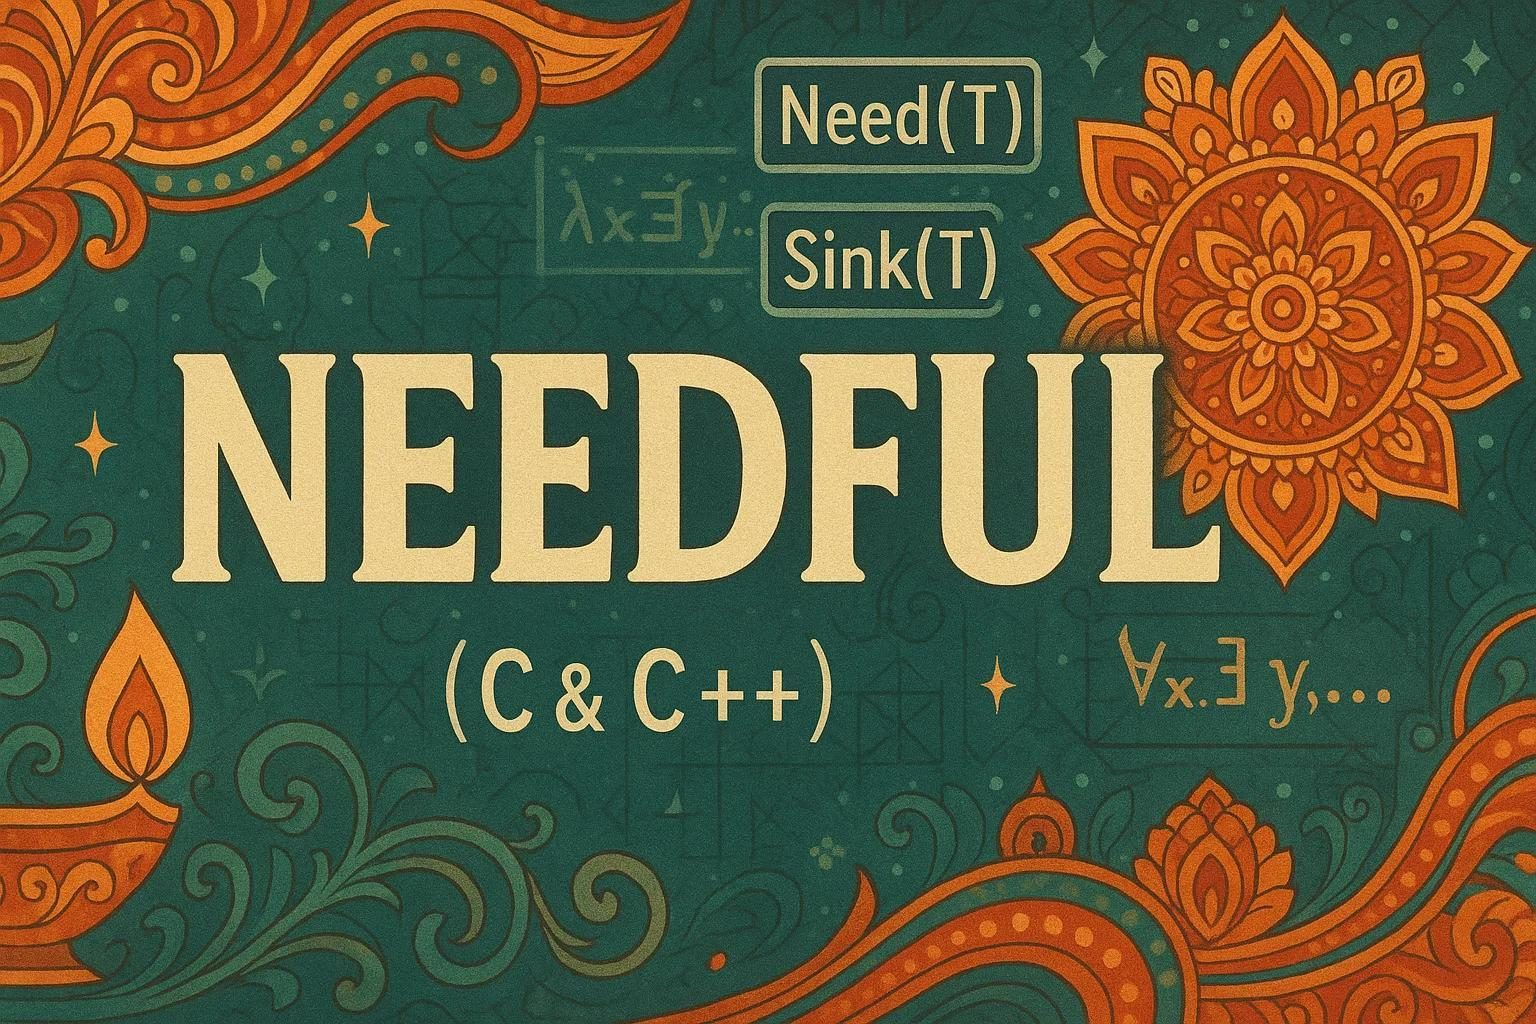
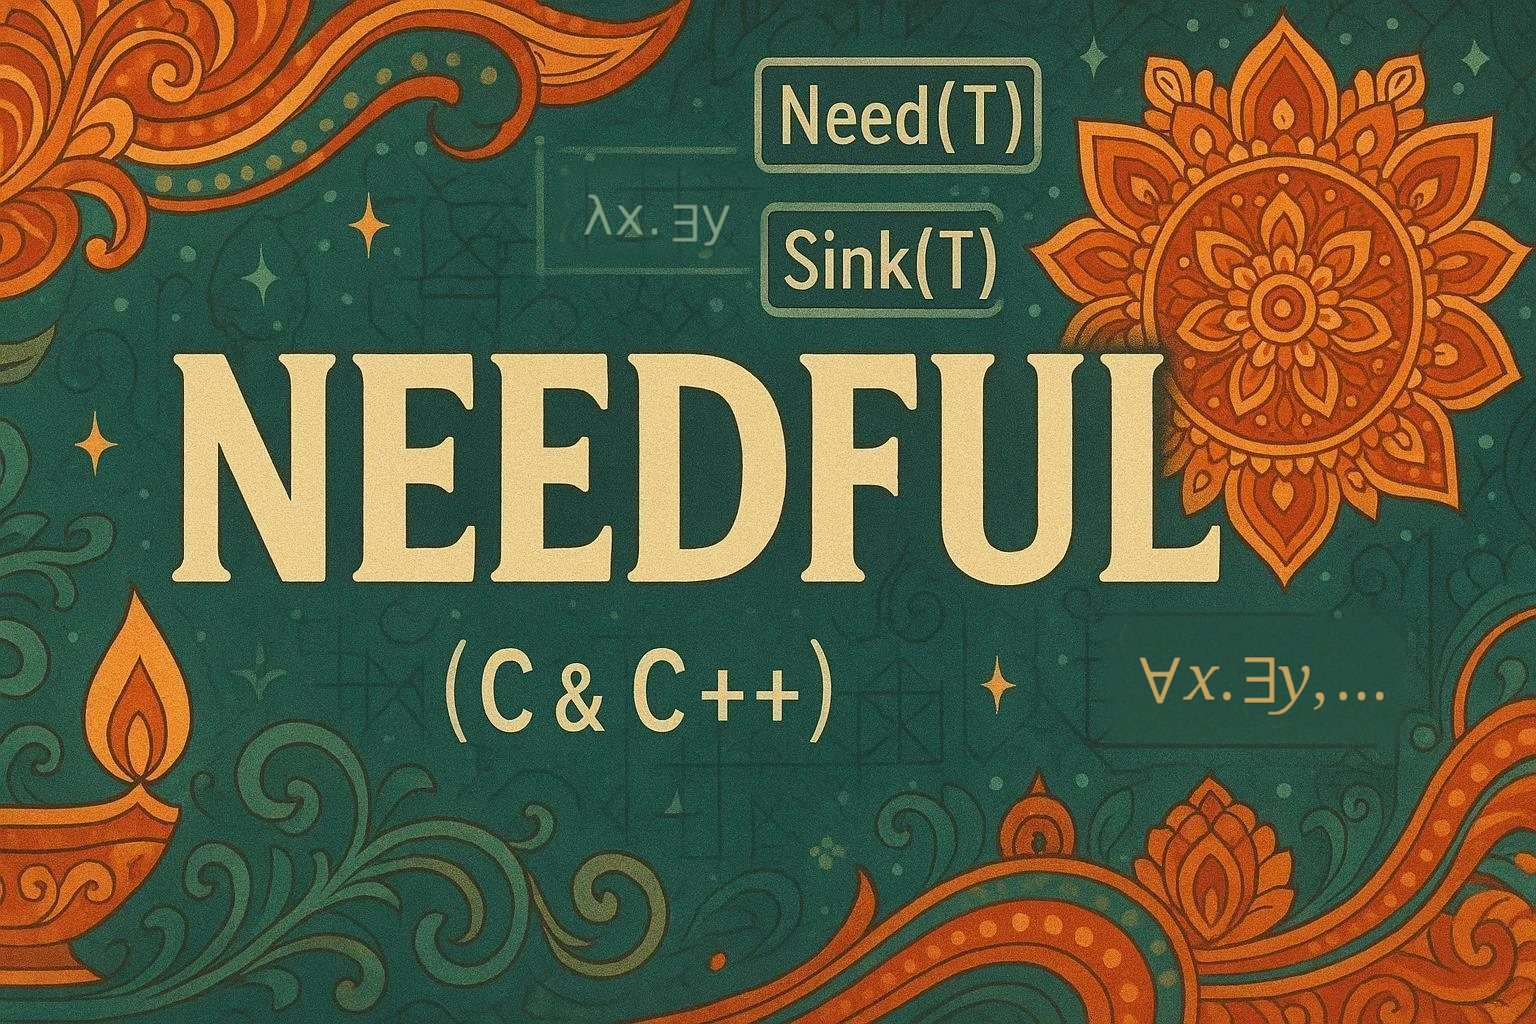
Tweak graphics and increase font size
Original Sora graphic was kind of sloppy about the math symbols, fix
that sloppiness and increase the font size.

Changed region(s): [[0.7188, 0.625, 0.9062, 0.7188], [0.375, 0.1875, 0.5, 0.25]]

diff --git a/docs/_sass/custom/custom.scss b/docs/_sass/custom/custom.scss
@@ -48,6 +48,11 @@ pre {
   font-feature-settings: "liga" 0, "calt" 0;
 }
 
+// Inline code at 0.75em (the theme default) is hard to read at body size.
+code {
+  font-size: 0.85em;
+}
+
 //=== Sidebar ================================================================//
 
 .side-bar {
@@ -99,8 +104,8 @@ pre {
 
 .needful-mark {
   flex: 0 0 auto;
-  width: 2.4rem;
-  height: 2.4rem;
+  width: 2.6rem;
+  height: 2.6rem;
   border-radius: 50%;
   box-shadow:
     0 0 0 2px $needful-green-700,
@@ -110,7 +115,7 @@ pre {
 
 .needful-wordmark {
   font-family: $needful-display-font-family;
-  font-size: 1.35rem;
+  font-size: 1.5rem;
   font-weight: 800;
   letter-spacing: 0.16em;
   line-height: 1;
@@ -126,6 +131,8 @@ pre {
 }
 
 .nav-list .nav-list-item {
+  font-size: 1rem !important;
+
   .nav-list-link {
     color: $needful-parchment;
     transition: color 120ms ease, background-color 120ms ease;
@@ -171,7 +178,7 @@ pre {
   .needful-footer-glyphs {
     font-family: "STIX Two Math", "Cambria Math", "Latin Modern Math",
       "Noto Serif", "Times New Roman", serif;
-    font-size: 0.95rem;
+    font-size: 1.05rem;
     letter-spacing: 0.08em;
     color: $needful-gold;
     opacity: 0.8;
@@ -222,7 +229,7 @@ pre {
 
 .aux-nav .site-button {
   font-family: $body-font-family;
-  font-size: 0.72rem;
+  font-size: 0.8rem;
   font-weight: 600;
   letter-spacing: 0.12em;
   text-transform: uppercase;
@@ -266,7 +273,7 @@ pre {
   }
 
   h1 {
-    font-size: 2.35rem;
+    font-size: 2.6rem;
     font-weight: 800;
     line-height: 1.15;
     letter-spacing: 0.005em;
@@ -290,21 +297,21 @@ pre {
   }
 
   h2 {
-    font-size: 1.55rem;
+    font-size: 1.85rem;
     padding-bottom: 0.3em;
     margin-top: 2.2em;
     border-bottom: 1px solid $needful-hairline;
   }
 
   h3 {
-    font-size: 1.2rem;
+    font-size: 1.4rem;
     margin-top: 1.8em;
     color: $needful-amber;
   }
 
   h4 {
     font-family: $body-font-family;
-    font-size: 0.78rem;
+    font-size: 0.85rem;
     font-weight: 700;
     letter-spacing: 0.14em;
     text-transform: uppercase;
@@ -330,6 +337,19 @@ pre {
 
   strong {
     color: $needful-cream;
+  }
+
+  // Code inside a link gets the link color, so `Need(T)` reads as a link
+  // rather than as ordinary inline code with a faint underline.
+  a code,
+  a:not([class]) code {
+    color: $needful-saffron;
+    border-color: rgba($needful-saffron, 0.45);
+  }
+
+  a:hover code {
+    color: $needful-marigold;
+    border-color: $needful-marigold;
   }
 
   ul > li::before {
@@ -411,6 +431,8 @@ figure.highlight {
   }
 
   code {
+    font-size: 0.95rem;
+    line-height: 1.55;
     color: $needful-parchment;
   }
 }
@@ -559,7 +581,7 @@ figure.highlight {
 
 th {
   font-family: $body-font-family;
-  font-size: 0.72rem !important;
+  font-size: 0.8rem !important;
   font-weight: 700;
   letter-spacing: 0.1em;
   text-transform: uppercase;
@@ -568,6 +590,8 @@ th {
 }
 
 td {
+  font-size: 1rem !important;
+  line-height: 1.5;
   background-color: $needful-green-500;
 }
 
@@ -631,7 +655,8 @@ td {
 //=== Homepage hero ==========================================================//
 
 .needful-hero {
-  margin: 0 0 1.5rem;
+  max-width: 34rem;
+  margin: 0 auto 1.5rem;
 
   img {
     display: block;

diff --git a/docs/_sass/custom/setup.scss b/docs/_sass/custom/setup.scss
@@ -30,6 +30,27 @@ $body-line-height: 1.5;
 $content-line-height: 1.7;
 $border-radius: 6px;
 
+// Type scale.  just-the-docs defaults to 16px body text on desktop and 14px
+// for navigation, tables and captions, which reads small next to a typical
+// article page.  These bump the whole scale by roughly 20% (19px body) while
+// keeping the theme's relative hierarchy.  Everything is in rem, so a reader
+// zooming out still gets proportionally smaller text.
+
+$font-size-1: 0.7rem;
+$font-size-1-sm: 0.75rem;
+$font-size-2: 0.8rem;      // h4 (uppercased), small labels
+$font-size-3: 0.9375rem;   // nav links, tables, captions (15px)
+$font-size-4: 1.0625rem;   // body on narrow screens (17px)
+$font-size-5: 1.1875rem;   // body on desktop (19px), h3
+$font-size-6: 1.35rem;     // h2
+$font-size-7: 1.7rem;
+$font-size-8: 2.2rem;      // h1
+$font-size-9: 2.5rem;
+$font-size-10: 2.9rem;
+$font-size-10-sm: 3.2rem;
+
+$content-width: 52rem;
+
 // Core palette (used by color_schemes/needful.scss and custom/custom.scss)
 
 $needful-green-900: #10261f;  // deepest: code gutters, shadows

diff --git a/docs/_includes/title.html b/docs/_includes/title.html
@@ -3,5 +3,5 @@
   Shows the mandala mark (cropped from the banner) beside a serif wordmark.
   Styled by .needful-mark / .needful-wordmark in _sass/custom/custom.scss.
 {%- endcomment -%}
-<img class="needful-mark" src="{{ '/assets/images/needful-mark.png' | relative_url }}" alt="" width="38" height="38">
+<img class="needful-mark" src="{{ '/assets/images/needful-mark.png' | relative_url }}" alt="" width="42" height="42">
 <span class="needful-wordmark">{{ site.title }}</span>
